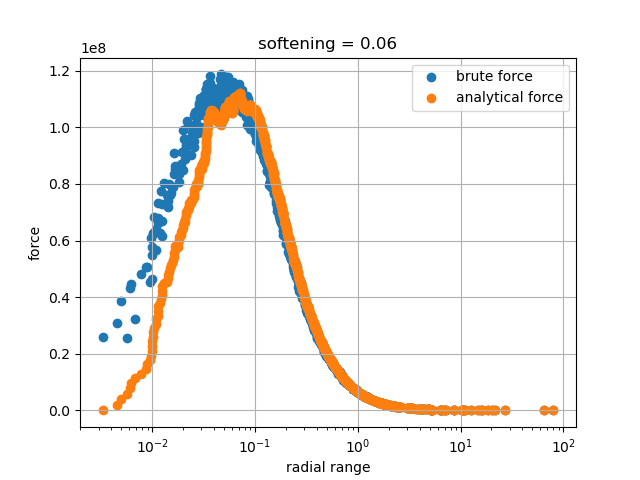
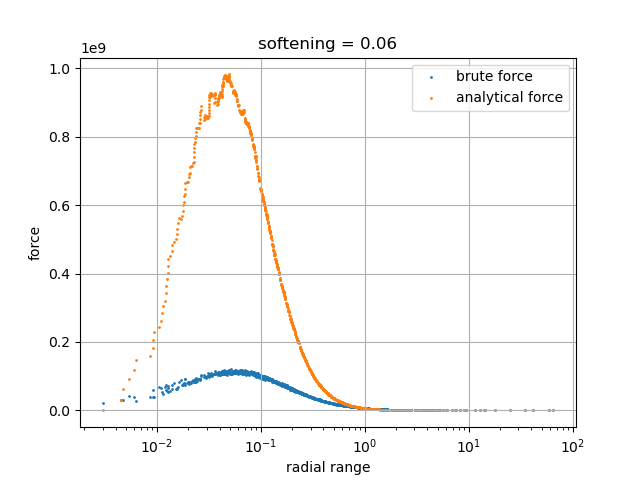
changed analytical solution calculation and added relaxation time calculation

diff --git a/project_intro/force_comparison.py b/project_intro/force_comparison.py
@@ -10,12 +10,13 @@ epsilon_list = [0,0.01,0.02,0.03,0.04,0.048596998711201725,0.05,0.06,0.07,0.08,0
 
 def force_plotting(radial_range, brute_force, analytical_force, epsilon):
     plt.grid()
-    plt.scatter(radial_range, norm(brute_force, axis = 1), label = "brute force")
-    plt.scatter(radial_range, norm(analytical_force, axis = 1), label = "analytical force")
+    plt.scatter(radial_range, norm(brute_force, axis = 1), label = "brute force", s = 1)
+    plt.scatter(radial_range, norm(analytical_force, axis = 1), label = "analytical force", s = 1)
     plt.xlabel("radial range")
     plt.ylabel("force")
     plt.xscale('log')
     plt.legend()
+    # plt.ylim([0,6*1e8])
     plt.title(f"softening = {epsilon}")
     plt.savefig(f"./project_intro/brute_force_calculations/brute_force_softening_{epsilon}.png")
     plt.cla()
@@ -26,6 +27,4 @@ for epsilon in epsilon_list:
     force_plotting(minigalaxy.radial_range, brute_force, analytical_force, epsilon)
 
 
-
-
-    
+# the smaller the softening, the bigger the force and the less smooth the curve of the forces. 

diff --git a/project_intro/relaxation_timescale.py b/project_intro/relaxation_timescale.py
@@ -1,0 +1,27 @@
+from brute_force import get_galaxy_data
+import numpy as np
+
+path = r'C:\Users\UZH\OneDrive - Universität Zürich UZH\Dokumente\HS25\Computational Astrophysics\N_Body_Repo\N_Body\Prerequisites\Data for choice 1\data.txt'
+m, r, v, minigalaxy, galaxy = get_galaxy_data(n = 1000)
+
+
+def calc_R_halfmass(galaxy):
+    """returns halfmass radius in parsec"""
+    integrated_mass = 0
+    galaxy_sorted = galaxy
+    half_mass = sum(galaxy["Mass"])/2
+
+    galaxy_sorted.sort_values("radial_range")
+    for index, row in galaxy_sorted.iterrows():
+        integrated_mass+=row["Mass"]
+        if integrated_mass>half_mass:
+            return row["radial_range"]
+
+halfmass_range = calc_R_halfmass(galaxy)
+half_mass = sum(galaxy["Mass"])/2
+
+v_c = np.sqrt(half_mass/halfmass_range) # in solar masses / parsec
+
+t_cross = halfmass_range/v_c # crossing time of galaxy in parsec
+t_relax = len(galaxy)*t_cross/(8*np.log(len(galaxy)))
+print(t_relax) # relaxation time of galaxy in parsec

diff --git a/project_intro/analytical_force.py b/project_intro/analytical_force.py
@@ -15,7 +15,7 @@ def calc_analytical_force(r, m, epsilon):
         M_enc = np.sum(m[r_all < r_i])
         
         if r_i > 0:
-            force_magnitude = G * M_enc * m[i] / (r_i + epsilon)**2 # how strong the force on particle i is
+            force_magnitude = G * M_enc * m[i] / (r_i+epsilon)**3 # how strong the force on particle i is
             forces[i] = -force_magnitude * (r[i] / r_i)  # which direction it points
             # negative because of attraction to the center
     return forces
